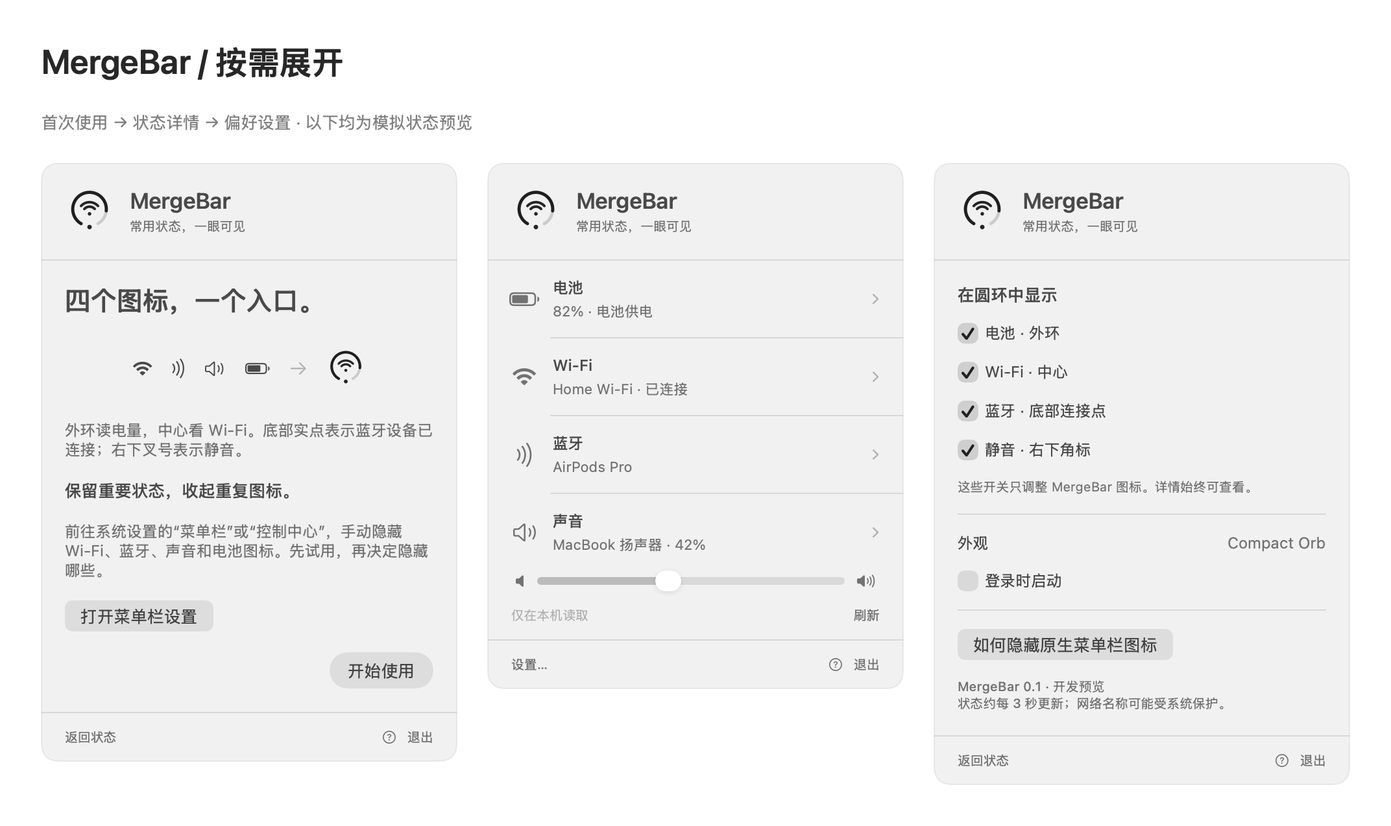
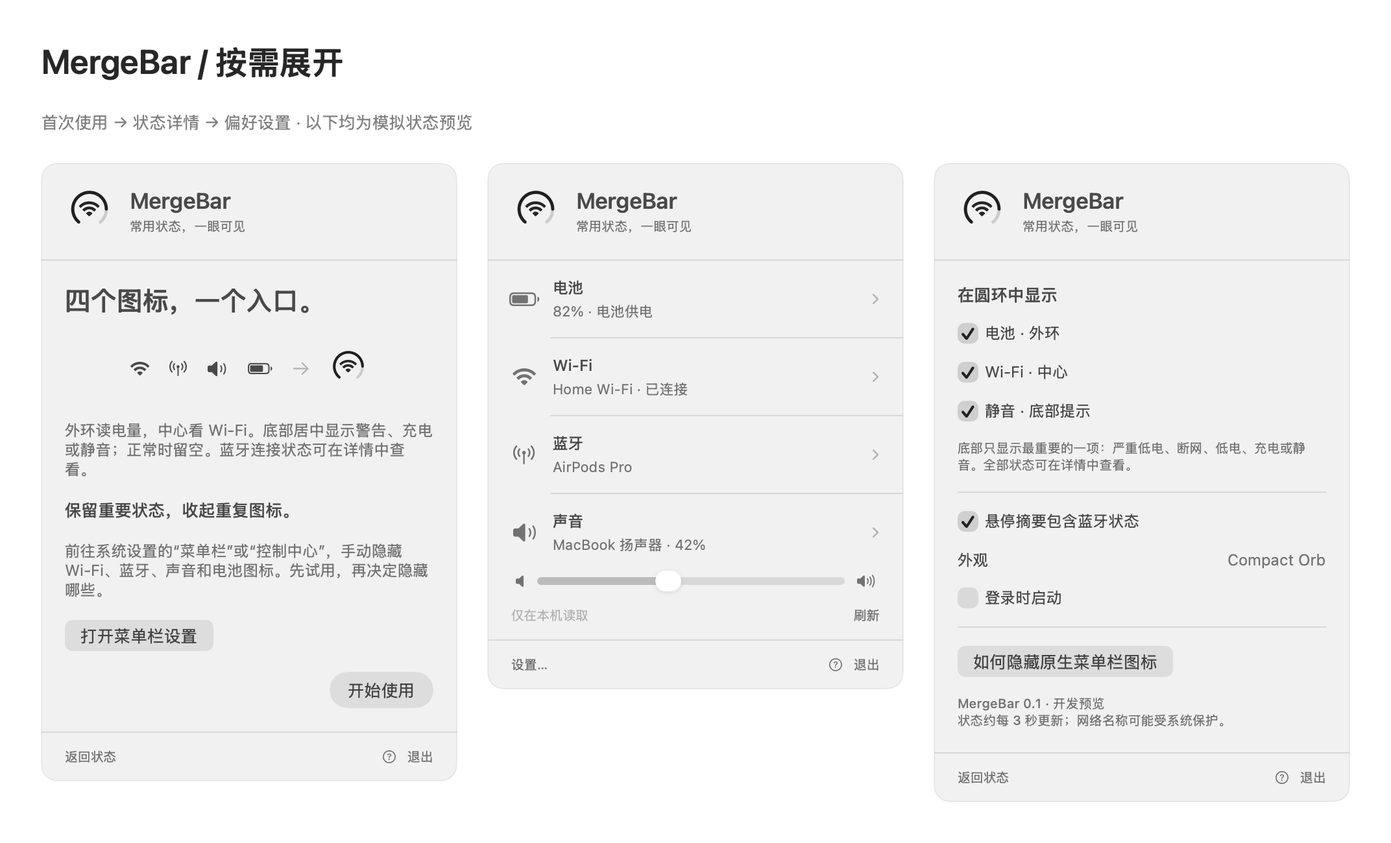
Refine status orb with SF Symbols and centered bottom indicator

diff --git a/Sources/MergeBar/OrbView.swift b/Sources/MergeBar/OrbView.swift
@@ -1,5 +1,40 @@
 import SwiftUI
 
+/// Public SF Symbols available on the macOS 14 deployment target.
+enum StatusSymbols {
+    static let charging = "bolt.fill"
+    // SF Symbols has no public Bluetooth logo; this is a generic wireless indicator.
+    static let bluetooth = "antenna.radiowaves.left.and.right"
+
+    static func battery(_ status: BatteryStatus) -> String {
+        guard status.availability == .available else { return "questionmark.circle" }
+        if status.charging { return "battery.100percent.bolt" }
+        switch status.level {
+        case ..<10: return "battery.0percent"
+        case ..<38: return "battery.25percent"
+        case ..<63: return "battery.50percent"
+        case ..<88: return "battery.75percent"
+        default: return "battery.100percent"
+        }
+    }
+
+    static func wifi(_ status: WiFiStatus) -> String {
+        switch status.connection {
+        case .connected: return "wifi"
+        case .off: return "wifi.slash"
+        case .disconnected: return "wifi.exclamationmark"
+        case .unknown, .unavailable: return "questionmark.circle"
+        }
+    }
+
+    static func sound(_ status: SoundStatus) -> String {
+        guard status.available else { return "questionmark.circle" }
+        if status.effectivelyMuted { return "speaker.slash.fill" }
+        guard let volume = status.volume else { return "speaker.fill" }
+        return volume < 0.34 ? "speaker.wave.1.fill" : volume < 0.67 ? "speaker.wave.2.fill" : "speaker.wave.3.fill"
+    }
+}
+
 /// Single geometry shared by the actual status item, onboarding and the fixture gallery.
 struct OrbView: View {
     let snapshot: StatusSnapshot
@@ -9,19 +44,17 @@ struct OrbView: View {
         Canvas { context, size in
             let scale = min(size.width, size.height) / 22
             context.scaleBy(x: scale, y: scale)
-            let ink = GraphicsContext.Shading.color(.primary)
-            func line(_ a: CGPoint, _ b: CGPoint, width: CGFloat = 1.2) {
-                var path = Path(); path.move(to: a); path.addLine(to: b)
-                context.stroke(path, with: ink, style: StrokeStyle(lineWidth: width, lineCap: .round))
-            }
-            func text(_ value: String, x: CGFloat, y: CGFloat, size: CGFloat) {
-                context.draw(Text(value).font(.system(size: size, weight: .heavy, design: .rounded)).foregroundStyle(.primary), at: CGPoint(x: x, y: y))
+            func symbol(_ name: String, x: CGFloat, y: CGFloat, size: CGFloat,
+                        value: Double? = nil, weight: Font.Weight = .semibold) {
+                let glyph = Text(Image(systemName: name, variableValue: value))
+                    .font(.system(size: size, weight: weight)).foregroundStyle(.primary)
+                context.draw(glyph, at: CGPoint(x: x, y: y))
             }
             func arc(_ fraction: Double, opacity: Double, dashed: Bool = false) {
                 var path = Path()
-                // 300° usable battery sweep; the lower gap is reserved for Bluetooth.
+                // A symmetric 80° gap holds exactly one status symbol on the vertical axis.
                 path.addArc(center: CGPoint(x: 11, y: 10), radius: 7.5,
-                            startAngle: .degrees(120), endAngle: .degrees(120 + 300 * fraction), clockwise: false)
+                            startAngle: .degrees(130), endAngle: .degrees(130 + 280 * fraction), clockwise: false)
                 context.stroke(path, with: .color(.primary.opacity(opacity)),
                                style: StrokeStyle(lineWidth: 1.4, lineCap: .round, dash: dashed ? [1, 2] : []))
             }
@@ -37,48 +70,27 @@ struct OrbView: View {
             if preferences.wifi {
                 switch snapshot.wifi.connection {
                 case .connected:
-                    for (radius, strength) in [(CGFloat(5.1), 3), (CGFloat(3.1), 2)] {
-                        var path = Path()
-                        path.addArc(center: CGPoint(x: 11, y: 12), radius: radius,
-                                    startAngle: .degrees(222), endAngle: .degrees(318), clockwise: false)
-                        let visible = snapshot.wifi.bars == 0 || snapshot.wifi.bars >= strength
-                        context.stroke(path, with: .color(.primary.opacity(visible ? 1 : 0.2)),
-                                       style: StrokeStyle(lineWidth: 1.15, lineCap: .round))
-                    }
-                    context.fill(Path(ellipseIn: CGRect(x: 10.2, y: 11.3, width: 1.6, height: 1.6)), with: ink)
+                    symbol("wifi", x: 11, y: 10, size: 8,
+                           value: snapshot.wifi.bars == 0 ? nil : Double(snapshot.wifi.bars) / 3)
                 case .disconnected:
-                    line(CGPoint(x: 8.8, y: 8), CGPoint(x: 13.2, y: 12.4))
-                    line(CGPoint(x: 13.2, y: 8), CGPoint(x: 8.8, y: 12.4))
-                case .off: line(CGPoint(x: 8.5, y: 10), CGPoint(x: 13.5, y: 10))
-                case .unknown, .unavailable: text("?", x: 11, y: 10, size: 8)
-                }
-            }
-            if preferences.bluetooth {
-                let dot = Path(ellipseIn: CGRect(x: 10, y: 17, width: 2, height: 2))
-                switch snapshot.bluetooth.state {
-                case .on:
-                    if snapshot.bluetooth.devices.isEmpty { context.stroke(dot, with: ink, lineWidth: 0.7) }
-                    else { context.fill(dot, with: ink) }
-                case .off, .unavailable: break
-                default: text("?", x: 11, y: 18, size: 4.5)
+                    // The full wifi.exclamationmark is reserved for the larger popover row.
+                    symbol("xmark", x: 11, y: 10, size: 6)
+                case .off: symbol("wifi.slash", x: 11, y: 10, size: 8)
+                case .unknown, .unavailable: symbol("questionmark", x: 11, y: 10, size: 7)
                 }
             }
             switch snapshot.badge(preferences) {
-            case .critical: text("!", x: 20, y: 4, size: 7)
+            case .critical, .networkWarning, .lowBattery:
+                symbol("exclamationmark", x: 11, y: 17.7, size: 6.5, weight: .bold)
             case .charging:
-                var bolt = Path()
-                bolt.move(to: CGPoint(x: 21, y: 0.6)); bolt.addLine(to: CGPoint(x: 18.5, y: 4))
-                bolt.addLine(to: CGPoint(x: 20.1, y: 4)); bolt.addLine(to: CGPoint(x: 18.8, y: 7.2))
-                context.stroke(bolt, with: ink, style: StrokeStyle(lineWidth: 1, lineCap: .round, lineJoin: .round))
+                symbol(StatusSymbols.charging, x: 11, y: 17.7, size: 6.5, weight: .regular)
+            case .muted:
+                symbol("speaker.slash.fill", x: 11, y: 17.7, size: 5.5, weight: .regular)
             case .none: break
-            }
-            if preferences.sound && snapshot.sound.effectivelyMuted {
-                line(CGPoint(x: 18.3, y: 16), CGPoint(x: 21, y: 18.7), width: 1)
-                line(CGPoint(x: 21, y: 16), CGPoint(x: 18.3, y: 18.7), width: 1)
             }
             if !preferences.wifi && (!preferences.battery || snapshot.battery.availability == .unavailable) {
                 // A stable neutral anchor keeps the app reachable even when all indicators are off.
-                context.stroke(Path(ellipseIn: CGRect(x: 7, y: 6, width: 8, height: 8)), with: ink, lineWidth: 1.2)
+                symbol("circle", x: 11, y: 10, size: 9, weight: .regular)
             }
         }
         .accessibilityLabel(snapshot.accessibilitySummary(preferences))

diff --git a/Sources/MergeBar/PopoverView.swift b/Sources/MergeBar/PopoverView.swift
@@ -64,9 +64,9 @@ struct PopoverView: View {
 
     private var status: some View {
         VStack(spacing: 0) {
-            statusRow("电池", detail: store.snapshot.battery.detail, symbol: "battery.75percent", destination: .battery)
+            statusRow("电池", detail: store.snapshot.battery.detail, symbol: StatusSymbols.battery(store.snapshot.battery), destination: .battery)
             Divider().padding(.leading, 48)
-            statusRow("Wi-Fi", detail: store.snapshot.wifi.detail, symbol: "wifi", destination: .wifi)
+            statusRow("Wi-Fi", detail: store.snapshot.wifi.detail, symbol: StatusSymbols.wifi(store.snapshot.wifi), destination: .wifi)
             if store.snapshot.wifi.connection == .connected && store.snapshot.wifi.name == nil {
                 VStack(alignment: .leading, spacing: 5) {
                     Button("显示网络名称…") { store.requestNetworkName() }.font(.caption)
@@ -76,7 +76,9 @@ struct PopoverView: View {
             }
             Divider().padding(.leading, 48)
             VStack(alignment: .leading, spacing: 0) {
-                statusRow("蓝牙", detail: store.snapshot.bluetooth.detail, symbol: "wave.3.right", destination: .bluetooth)
+                statusRow("蓝牙", detail: store.snapshot.bluetooth.detail,
+                          symbol: store.snapshot.bluetooth.state == .off ? "antenna.radiowaves.left.and.right.slash" : StatusSymbols.bluetooth,
+                          destination: .bluetooth)
                 if store.snapshot.bluetooth.state == .permissionRequired {
                     Button("允许读取蓝牙状态") { store.enableBluetooth() }
                         .font(.caption).padding(.leading, 48).padding(.bottom, 12)
@@ -87,7 +89,7 @@ struct PopoverView: View {
             }
             Divider().padding(.leading, 48)
             statusRow("声音", detail: store.snapshot.sound.detail,
-                      symbol: store.snapshot.sound.effectivelyMuted ? "speaker.slash" : "speaker.wave.2", destination: .sound)
+                      symbol: StatusSymbols.sound(store.snapshot.sound), destination: .sound)
             HStack(spacing: 8) {
                 Image(systemName: "speaker.fill").font(.caption2).foregroundStyle(.secondary)
                 Slider(value: $volume, in: 0...1, onEditingChanged: { editing in
@@ -136,11 +138,11 @@ struct PopoverView: View {
             Text("在圆环中显示").font(.system(size: 13, weight: .semibold))
             Toggle("电池 · 外环", isOn: $store.preferences.battery)
             Toggle("Wi-Fi · 中心", isOn: $store.preferences.wifi)
-            Toggle("蓝牙 · 底部连接点", isOn: $store.preferences.bluetooth)
-            Toggle("静音 · 右下角标", isOn: $store.preferences.sound)
-            Text("这些开关只调整 MergeBar 图标。详情始终可查看。")
+            Toggle("静音 · 底部提示", isOn: $store.preferences.sound)
+            Text("底部只显示最重要的一项：严重低电、断网、低电、充电或静音。全部状态可在详情中查看。")
                 .font(.caption).foregroundStyle(.secondary)
             Divider()
+            Toggle("悬停摘要包含蓝牙状态", isOn: $store.preferences.bluetooth)
             HStack { Text("外观"); Spacer(); Text("Compact Orb").foregroundStyle(.secondary) }
             Toggle("登录时启动", isOn: Binding(get: { store.loginEnabled }, set: { store.setLoginEnabled($0) }))
             if store.loginNeedsApproval {
@@ -157,11 +159,11 @@ struct PopoverView: View {
         VStack(alignment: .leading, spacing: 16) {
             Text("四个图标，一个入口。").font(.system(size: 21, weight: .semibold))
             HStack(spacing: 13) {
-                ForEach(["wifi", "wave.3.right", "speaker.wave.2", "battery.75percent"], id: \.self) { Image(systemName: $0) }
+                ForEach(["wifi", StatusSymbols.bluetooth, "speaker.wave.2.fill", "battery.75percent"], id: \.self) { Image(systemName: $0) }
                 Image(systemName: "arrow.right").foregroundStyle(.tertiary)
                 OrbView(snapshot: .normal).frame(width: 32, height: 32)
             }.frame(maxWidth: .infinity).padding(.vertical, 8).accessibilityHidden(true)
-            Text("外环读电量，中心看 Wi-Fi。底部实点表示蓝牙设备已连接；右下叉号表示静音。")
+            Text("外环读电量，中心看 Wi-Fi。底部居中显示警告、充电或静音；正常时留空。蓝牙连接状态可在详情中查看。")
                 .font(.system(size: 12)).foregroundStyle(.secondary).fixedSize(horizontal: false, vertical: true)
             Text("保留重要状态，收起重复图标。")
                 .font(.system(size: 13, weight: .medium))
@@ -180,7 +182,7 @@ struct OrbGallery: View {
             Text("MergeBar / 状态图谱").font(.system(size: 24, weight: .semibold))
             Text("相同几何，真实尺寸与放大视图。图谱使用模拟状态，不读取或改变系统设置。")
                 .font(.system(size: 12)).foregroundStyle(.secondary)
-            LazyVGrid(columns: Array(repeating: GridItem(.fixed(140)), count: 5), spacing: 24) {
+            LazyVGrid(columns: Array(repeating: GridItem(.fixed(140)), count: 4), spacing: 24) {
                 ForEach(StatusSnapshot.scenarios, id: \.0) { title, snapshot in
                     VStack(spacing: 12) {
                         OrbView(snapshot: snapshot).frame(width: 66, height: 66)

diff --git a/Sources/MergeBar/StatusModel.swift b/Sources/MergeBar/StatusModel.swift
@@ -77,10 +77,10 @@ struct IndicatorPreferences: Equatable {
     var wifi = true
     var bluetooth = true
     var sound = true
-    var anyEnabled: Bool { battery || wifi || bluetooth || sound }
+    var anyEnabled: Bool { battery || wifi || sound }
 }
 
-enum OrbBadge: Equatable { case none, critical, charging }
+enum OrbBadge: Equatable { case none, critical, networkWarning, lowBattery, charging, muted }
 
 struct StatusSnapshot: Equatable {
     var battery = BatteryStatus()
@@ -89,19 +89,23 @@ struct StatusSnapshot: Equatable {
     var sound = SoundStatus()
 
     func badge(_ preferences: IndicatorPreferences) -> OrbBadge {
-        guard preferences.battery else { return .none }
-        if battery.critical { return .critical }
-        if battery.availability == .available && battery.charging { return .charging }
+        if preferences.battery && battery.critical { return .critical }
+        if preferences.wifi && wifi.connection == .disconnected { return .networkWarning }
+        if preferences.battery && battery.low { return .lowBattery }
+        if preferences.battery && battery.availability == .available && battery.charging { return .charging }
+        if preferences.sound && sound.effectivelyMuted { return .muted }
         return .none
     }
 
     func headline(_ preferences: IndicatorPreferences) -> String {
-        if preferences.battery && battery.critical { return "电量不足 10%，请连接电源" }
-        if preferences.wifi && wifi.connection == .disconnected { return "Wi-Fi 尚未连接" }
-        if preferences.battery && battery.low { return "电量较低" }
-        if preferences.battery && battery.charging { return "正在为下一程充电" }
-        if preferences.sound && sound.effectivelyMuted { return "声音已静音" }
-        return preferences.anyEnabled ? "常用状态，一眼可见" : "所有图标指标已隐藏"
+        switch badge(preferences) {
+        case .critical: return "电量不足 10%，请连接电源"
+        case .networkWarning: return "Wi-Fi 尚未连接"
+        case .lowBattery: return "电量较低"
+        case .charging: return "正在为下一程充电"
+        case .muted: return "声音已静音"
+        case .none: return preferences.anyEnabled ? "常用状态，一眼可见" : "所有图标指标已隐藏"
+        }
     }
 
     func accessibilitySummary(_ p: IndicatorPreferences) -> String {
@@ -129,8 +133,11 @@ struct StatusSnapshot: Equatable {
         var mute = normal; mute.sound.muted = true
         var combined = critical; combined.wifi.connection = .disconnected; combined.sound.muted = true
         var desktop = normal; desktop.battery.availability = .unavailable
+        var mediumSignal = normal; mediumSignal.wifi.rssi = -68
+        var weakSignal = normal; weakSignal.wifi.rssi = -82
         return [("日常", normal), ("充电", charging), ("低电量", low), ("严重低电", critical),
                 ("Wi-Fi 断开", disconnected), ("无线关闭", off), ("静音", mute),
-                ("多重异常", combined), ("桌面 Mac", desktop), ("尚未读取", StatusSnapshot())]
+                ("多重异常", combined), ("桌面 Mac", desktop), ("尚未读取", StatusSnapshot()),
+                ("Wi-Fi 中等", mediumSignal), ("Wi-Fi 较弱", weakSignal)]
     }
 }

diff --git a/Tests/MergeBarTests/StatusModelTests.swift b/Tests/MergeBarTests/StatusModelTests.swift
@@ -47,10 +47,51 @@ final class StatusModelTests: XCTestCase {
         XCTAssertEqual(status.badge(preferences), .critical)
         XCTAssertTrue(status.headline(preferences).contains("10%"))
         preferences.battery = false
-        XCTAssertEqual(status.badge(preferences), .none)
+        XCTAssertEqual(status.badge(preferences), .networkWarning)
         XCTAssertEqual(status.headline(preferences), "Wi-Fi 尚未连接")
         preferences.wifi = false
+        XCTAssertEqual(status.badge(preferences), .muted)
         XCTAssertEqual(status.headline(preferences), "声音已静音")
+    }
+
+    func testBottomSlotSelectsOneStatusAndRevealsTheNextWhenResolved() {
+        var status = StatusSnapshot.normal
+        let preferences = IndicatorPreferences()
+        status.battery.level = 7
+        status.wifi.connection = .disconnected
+        status.sound.muted = true
+        XCTAssertEqual(status.badge(preferences), .critical)
+        status.battery.level = 16
+        XCTAssertEqual(status.badge(preferences), .networkWarning)
+        status.wifi.connection = .connected
+        XCTAssertEqual(status.badge(preferences), .lowBattery)
+        status.battery.externalPower = true
+        status.battery.charging = true
+        XCTAssertEqual(status.badge(preferences), .charging)
+        status.battery.charging = false
+        XCTAssertEqual(status.badge(preferences), .muted)
+        status.sound.muted = false
+        XCTAssertEqual(status.badge(preferences), .none)
+    }
+
+    func testBluetoothDoesNotOccupyBottomSlotOrCountAsVisibleIndicator() {
+        let status = StatusSnapshot.normal
+        let preferences = IndicatorPreferences(battery: false, wifi: false, bluetooth: true, sound: false)
+        XCTAssertEqual(status.badge(preferences), .none)
+        XCTAssertFalse(preferences.anyEnabled)
+        XCTAssertTrue(status.accessibilitySummary(preferences).contains("AirPods Pro"))
+    }
+
+    func testDisabledSoundDoesNotTakeBottomSlotAndHiddenStatusesStayInSnapshot() {
+        var status = StatusSnapshot.normal
+        status.battery.charging = true
+        status.battery.externalPower = true
+        status.sound.muted = true
+        XCTAssertEqual(status.badge(IndicatorPreferences()), .charging)
+        XCTAssertTrue(status.accessibilitySummary(IndicatorPreferences()).contains("静音"))
+        let preferences = IndicatorPreferences(battery: false, wifi: false, sound: false)
+        XCTAssertEqual(status.badge(preferences), .none)
+        XCTAssertTrue(status.sound.effectivelyMuted)
     }
 
     func testZeroVolumeAndUnknownMute() {

diff --git a/docs/PLAN.md b/docs/PLAN.md
@@ -8,13 +8,13 @@
 
 ## 视觉与交互规格
 
-- 外环：从左下端沿 300° 量程绘制电量，底部留固定缺口供蓝牙点使用。背景细环表示量程，实线表示当前电量。无电池时不画电量环，未知时画虚线。
-- 中心：Wi-Fi 两条弧与点表示强度；关闭为短横线，断开为叉，未知为问号。不能把 SSID 为空判成断开，也不能把 Wi-Fi 连接称为互联网畅通。
-- 底部：蓝牙连接为实点，开启但未发现已连接的配对设备为空心点，关闭不画，未授权为小问号。MVP 仅覆盖系统可枚举的已配对设备，不能声称检测所有 BLE 连接。
-- 右上固定角标：电量 <10% 且未接电为叹号；否则充电为闪电。右下固定角标为静音叉。没有状态换位、颜色依赖或常驻动画。角标不覆盖中心 Wi-Fi。
+- 外环：从左下端沿 280° 量程绘制电量，底部留对称的 80° 缺口供状态提示使用。背景细环表示量程，实线表示当前电量。无电池时不画电量环，未知时画虚线。
+- 中心：官方 SF Symbol `wifi` 通过 variableValue 表示强度；关闭为 `wifi.slash`，断开为 `xmark`，未知为 `questionmark`。不能把 SSID 为空判成断开，也不能把 Wi-Fi 连接称为互联网畅通。
+- 底部：固定在垂直中轴的单一状态提示位，正常时留空；优先级为严重低电 → Wi-Fi 断开 → 低电 → 充电 → 静音。多个状态不并排、不轮播；所有详情仍可在弹窗查看。蓝牙移至详情与可选悬停摘要，取消常驻连接点。
+- 取消右上/右下角标。底部警告使用官方 `exclamationmark`，充电使用 `bolt.fill`，静音使用 `speaker.slash.fill`。符号位置恒定，不覆盖中心 Wi-Fi；严重低电和一般低电通过外环长度及文字详情进一步区分。
 - 提醒标题优先级：严重低电量 → Wi-Fi 断开 → 低电量 <20% → 充电 → 静音 → 平静摘要。关闭的指标退出提醒计算。
 - 单击打开 320 pt 宽原生 Popover：标题与摘要、四行状态、音量滑块、设置/帮助/退出。Escape 或点击外部关闭。悬停和 VoiceOver 读完整文字。
-- 设置：四项显示开关（允许全关，保留中性入口）、唯一 Compact Orb 外观、登录启动、图形说明与首次使用引导。点击打开弹窗始终启用，避免用户关闭后失去入口。
+- 设置：电池、Wi-Fi、静音三项图标开关（允许全关，保留中性入口），以及独立的蓝牙悬停摘要开关、唯一 Compact Orb 外观、登录启动、图形说明与首次使用引导。点击打开弹窗始终启用，避免用户关闭后失去入口。
 - 首次启动：展示“四个图标，一个入口”、图例与系统设置按钮。隐藏原生图标完全由用户决定；新 macOS 的路径可能为“菜单栏”，旧版本为“控制中心”。
 - 系统字体、系统材质、原生按钮与焦点状态；中英文中的第一版界面采用中文，设备名称原样展示。
 
@@ -44,7 +44,7 @@
 
 1. P0 规划与空工程：保存 PRD、产品决策、构建入口与状态模型。
 2. v0.1：Battery + Wi-Fi、圆环、弹窗、未知/无硬件处理；构建通过、阈值与异常规则测试。
-3. v0.2：蓝牙权限、已配对设备连接点；授权前不访问设备名称。
+3. v0.2：蓝牙权限、已配对设备详情与悬停摘要；授权前不访问设备名称。
 4. v0.3：声音读取、静音角标、可写音量控制；不支持控制的设备禁用控件。
 5. MVP 集成：持久设置、引导、登录启动、设置跳转、VoiceOver 文本、休眠恢复、全状态预览与测试。
 6. 发布前验证：Intel 与 Apple Silicon、macOS 14/15/26、浅/深色及高对比度、VoiceOver、拒绝权限、AirPods/HDMI/无电池、切换输出、睡眠、8 小时运行与能耗采样。验证前只能称开发预览。
@@ -61,3 +61,20 @@
 - [SMAppService](https://developer.apple.com/documentation/servicemanagement/smappservice)
 
 更细的属性签名以本机 Xcode 26.6 SDK 头文件和编译器验证为准。
+
+## SF Symbols 选型修订
+
+依据 [Apple SF Symbols](https://developer.apple.com/sf-symbols/) 与本机系统 CoreGlyphs.bundle 的 `name_availability.plist` / `symbol_order.plist` 核对名称和最低版本。所选符号均在 macOS 14 或更早可用；不引入图片下载或新依赖。
+
+| 位置 | 选择 | 理由 |
+| --- | --- | --- |
+| 底部充电 | `bolt.fill`，6.5 pt regular | 实心轮廓在小尺寸下完整，在底部中轴固定显示 |
+| 中心 Wi-Fi | `wifi`，8 pt semibold，variableValue = 档位 / 3 | 官方轮廓及分层信号强度，免去手绘弧线的比例偏差 |
+| Wi-Fi 关闭 | `wifi.slash` | 直接表达关闭；断开仍用小 `xmark`，更详细的 `wifi.exclamationmark` 留给弹窗 |
+| 底部警告 | `exclamationmark`，6.5 pt bold | 严重低电、断网、低电占用同一个提示位，不显示蓝牙连接点 |
+| 蓝牙详情行 | `antenna.radiowaves.left.and.right`，关闭时 slash 版本 | 本机公开目录未找到 Bluetooth logo；这是通用无线符号，必须与“蓝牙”文字一起出现，不称其为官方蓝牙图标 |
+| 弹窗电池 | `battery.0percent` / `25percent` / `50percent` / `75percent` / `100percent`；充电用 `battery.100percent.bolt` | 不再固定显示 75%；文字仍提供真实电量，充电符号仅表示正在充电，不表示已充满 |
+| 弹窗声音 | `speaker.wave.1.fill` / `2.fill` / `3.fill`；静音用 `speaker.slash.fill` | 随音量档位变化；无可读音量时不假设档位 |
+| 底部静音 | `speaker.slash.fill`，5.5 pt regular | 底部缺口加宽后可容纳完整静音符号；有更高优先级状态时仅保留在详情中 |
+
+只有连续电量环保留自定义 Path。底部提示、问号和中性圆形入口都使用系统符号。旧版蓝牙显示偏好键保留并用于悬停摘要，因此升级不会重置用户设置。

diff --git a/docs/VALIDATION.md b/docs/VALIDATION.md
@@ -39,3 +39,20 @@
 - [ ] Developer ID 签名、公证、发行图标与分发包。
 
 结论：可构建、可运行的开发预览；尚未达到正式发行验收标准。约 3 秒轮询已实现，事件级更新与长期能耗优化是下一阶段。
+
+## 2026-09-15 · SF Symbols 图标修订
+
+- 手绘充电折线改为官方 `bolt.fill`；Wi-Fi 改用支持 variableValue 的官方符号。其余角标及连接点统一为 SF Symbols，连续电量环保留自定义绘制。
+- 弹窗电池、Wi-Fi 和声音图标按状态选择；蓝牙行使用通用无线天线符号并保留中文标签。
+- 核对本机 Apple CoreGlyphs 名称及版本元数据：所有新增引用兼容 macOS 14。没有进行 macOS 14 真机验证。
+- 构建成功；既有 11 项 XCTest 全部通过，0 失败。
+- 已导出并目视检查浅/深色 12 个圆环状态（新增中等和较弱信号），以及三页面模拟预览。确认 variableValue 分层绘制生效，充电符号完整，页面无缺失符号。
+- 本次未进行实际菜单栏点击、硬件切换或能耗测试；上方尚待验收列表仍有效。
+
+## 2026-09-15 · 底部单一状态提示
+
+- 取消蓝牙常驻点和右侧角标；底部提示固定在 x=11 的中轴，扩大底部缺口至 80°。正常时留空，警告/充电/静音只显示一项，均使用官方 SF Symbols。
+- 图标与标题共享同一优先级决策：严重低电 → Wi-Fi 断开 → 低电 → 充电 → 静音。蓝牙在详情与可选悬停摘要中显示，沿用已保存的蓝牙偏好。
+- XCTest 14 项通过，0 失败。新增覆盖逐步解除多个异常后下一提示显现、蓝牙不占位、禁用指标及未展示状态仍保留详情。
+- 已检查浅/深色 12 状态图谱与三页面模拟预览：没有右侧角标、底部符号居中、正常状态无蓝牙点，静音符号不碰撞圆环。构建及图谱导出成功。
+- 本次仍是模拟 UI 验证，不替代菜单栏实机交互与硬件切换验收。

diff --git a/README.md b/README.md
@@ -4,7 +4,7 @@
 
 ![状态图谱](docs/previews/orb-gallery-light.png)
 
-电池外环、Wi-Fi 中心、蓝牙连接点、静音角标。点击查看完整状态、调整支持设备的音量、前往系统设置。默认没有 Dock 图标。
+电池外环、Wi-Fi 中心、底部居中的单一状态提示。底部按严重低电、断网、低电、充电、静音的优先级显示，正常时留空；蓝牙连接状态移至详情与悬停摘要。点击查看完整状态、调整支持设备的音量、前往系统设置。默认没有 Dock 图标。
 
 ## 运行
 
@@ -25,7 +25,7 @@ open build/Build/Products/Debug/MergeBar.app
 - CoreWLAN Wi-Fi 开关、关联状态、信号档位；可选定位授权后显示 SSID。
 - 用户授权后读取蓝牙电源与已连接的配对设备；不扫描或配对设备。
 - CoreAudio 默认输出音量与静音；主音量或双声道音量控制，不能写入时禁用滑块。
-- 单色圆环、完整 tooltip/VoiceOver 描述、原生 Popover、引导、四项显示偏好持久化、SMAppService 登录启动。
+- 单色圆环、完整 tooltip/VoiceOver 描述、原生 Popover、引导、图标及蓝牙悬停摘要偏好持久化、SMAppService 登录启动。
 - 后台串行读取，约 3 秒刷新；休眠停止计时，唤醒刷新；模拟状态图谱。
 
 ## 验证
